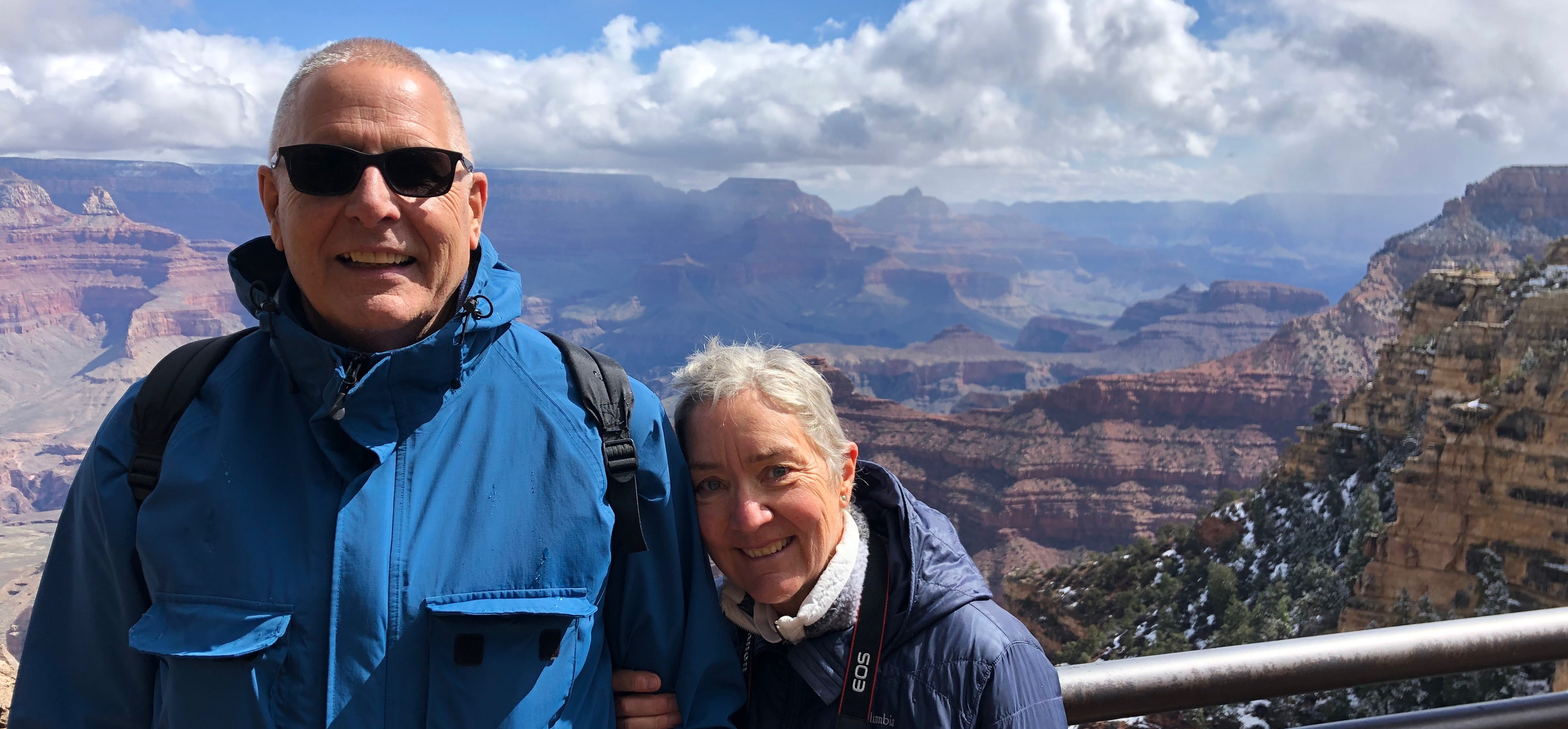
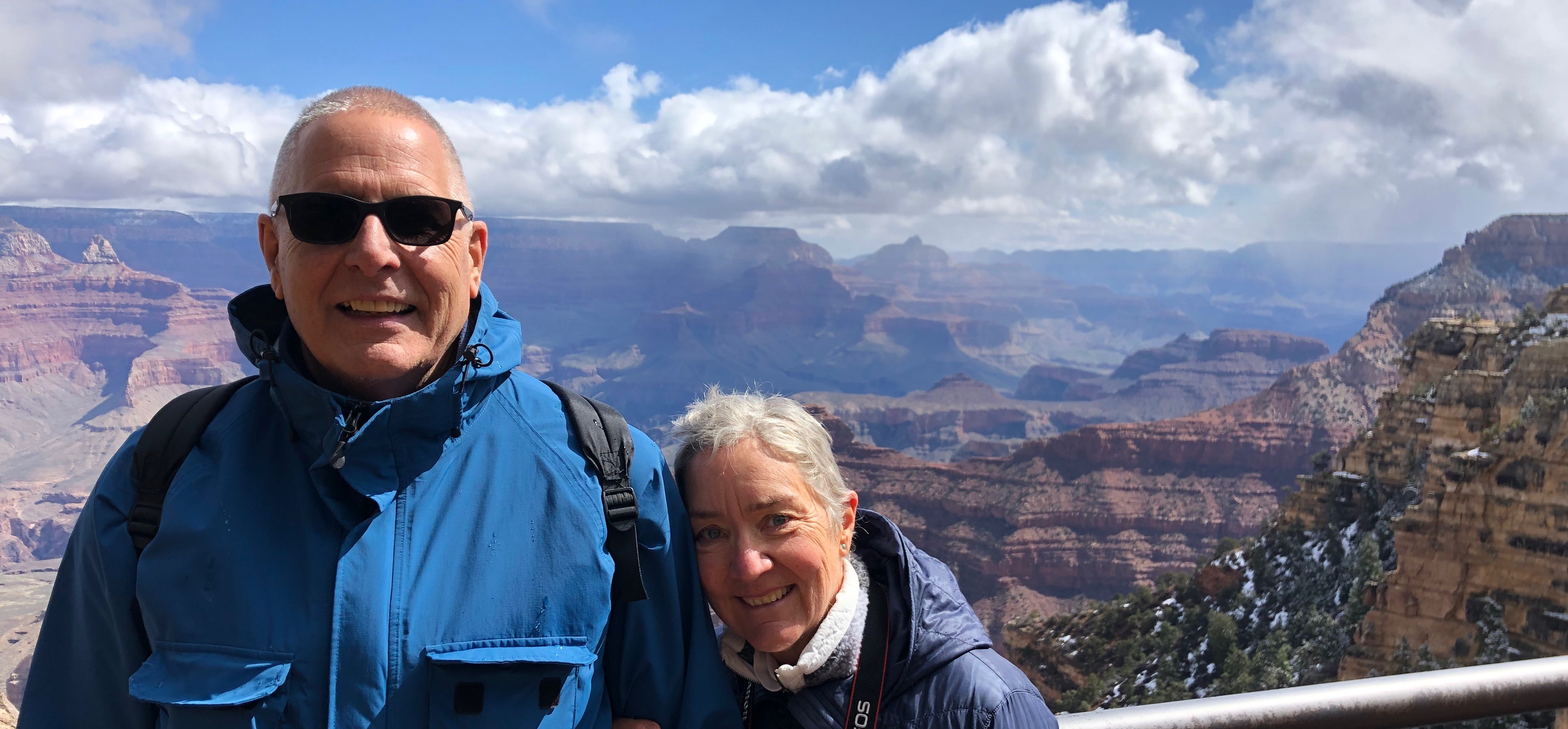
update

diff --git a/css/modern-business.css b/css/modern-business.css
@@ -9,7 +9,7 @@ body {
 }
 
 .carousel-item {
-  height: 65vh;
+  height: 75vh;
   min-height: 300px;
   background: no-repeat center center scroll;
   -webkit-background-size: cover;
